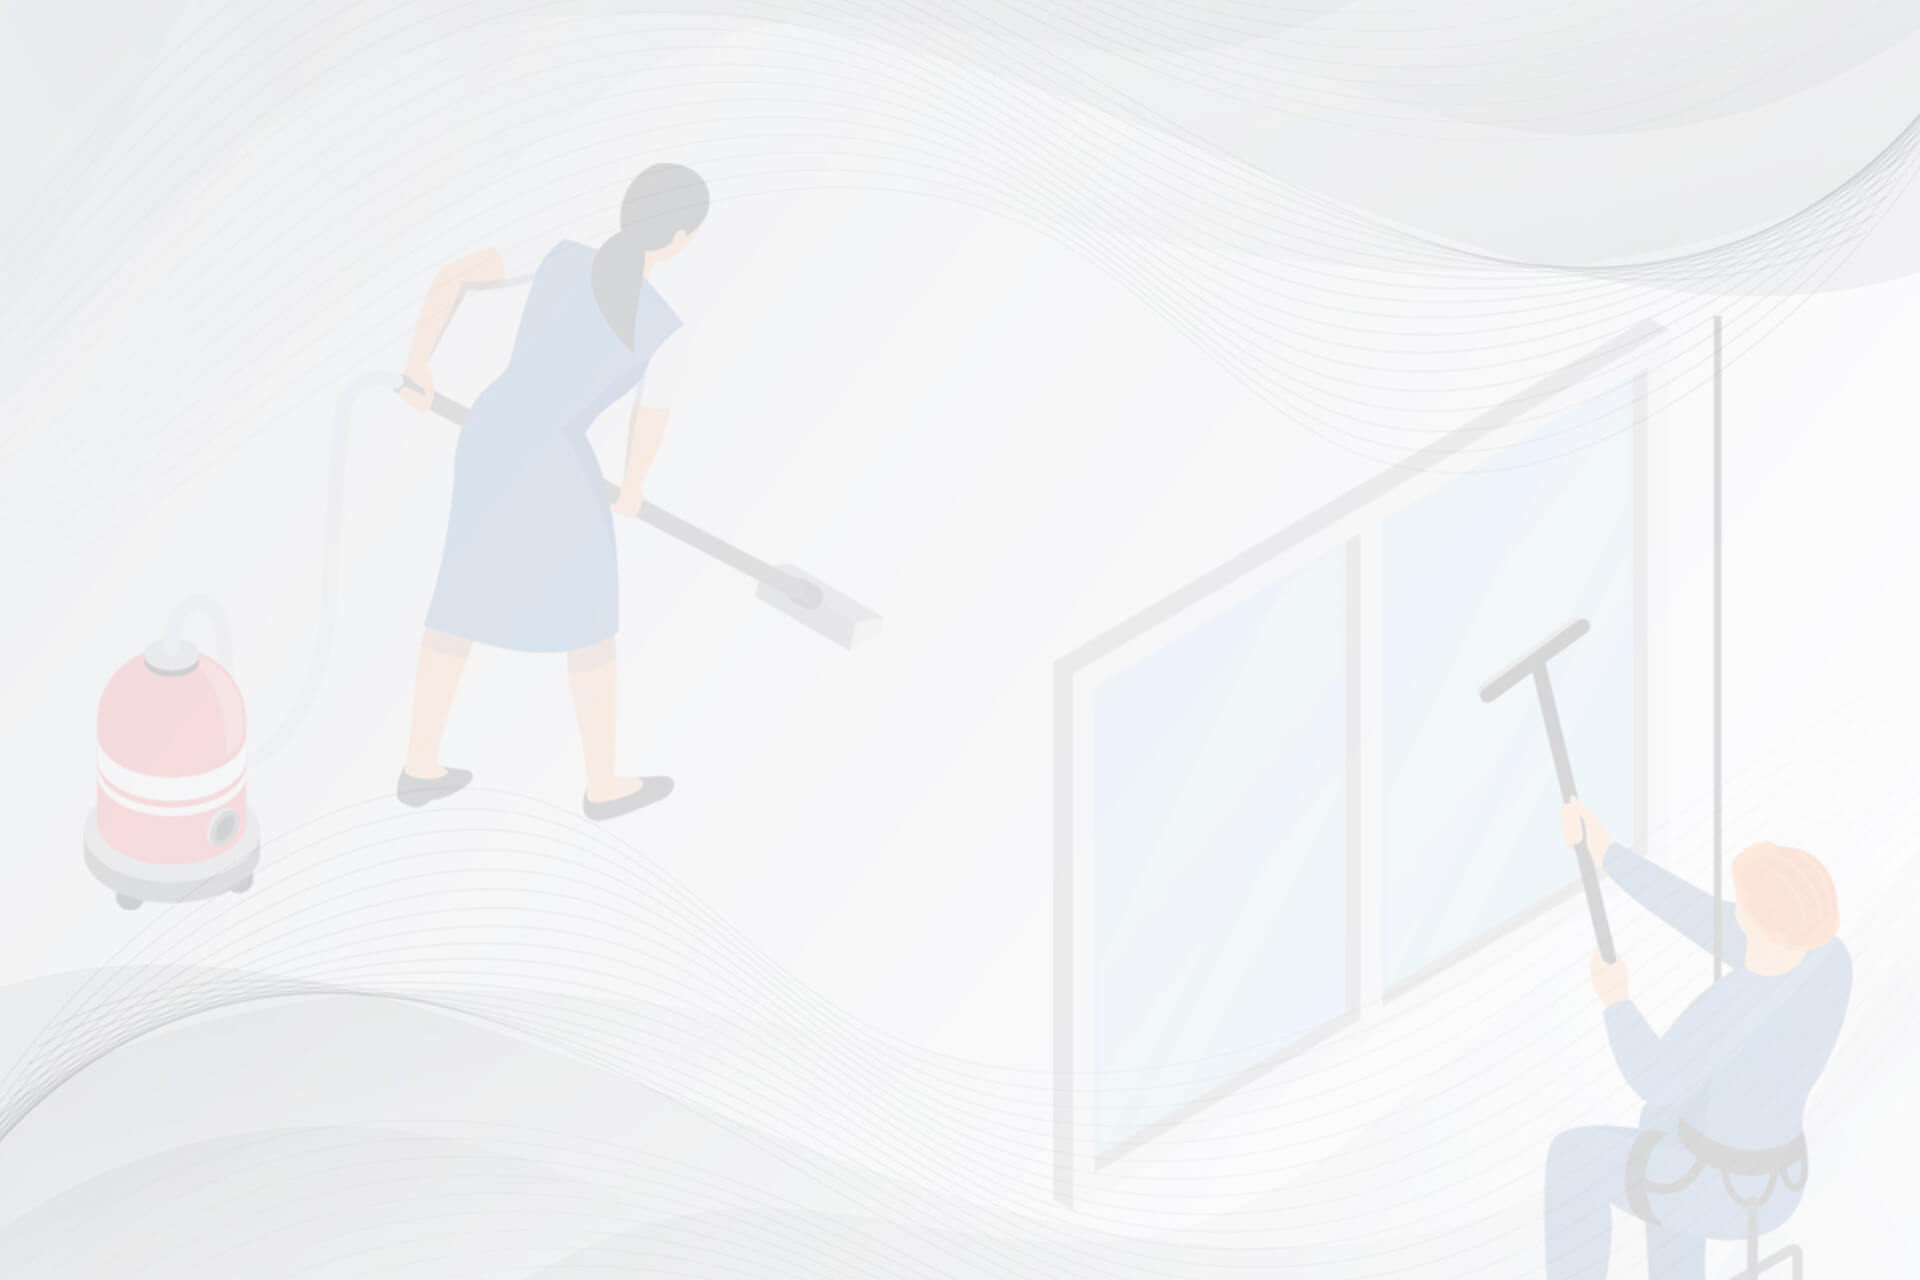
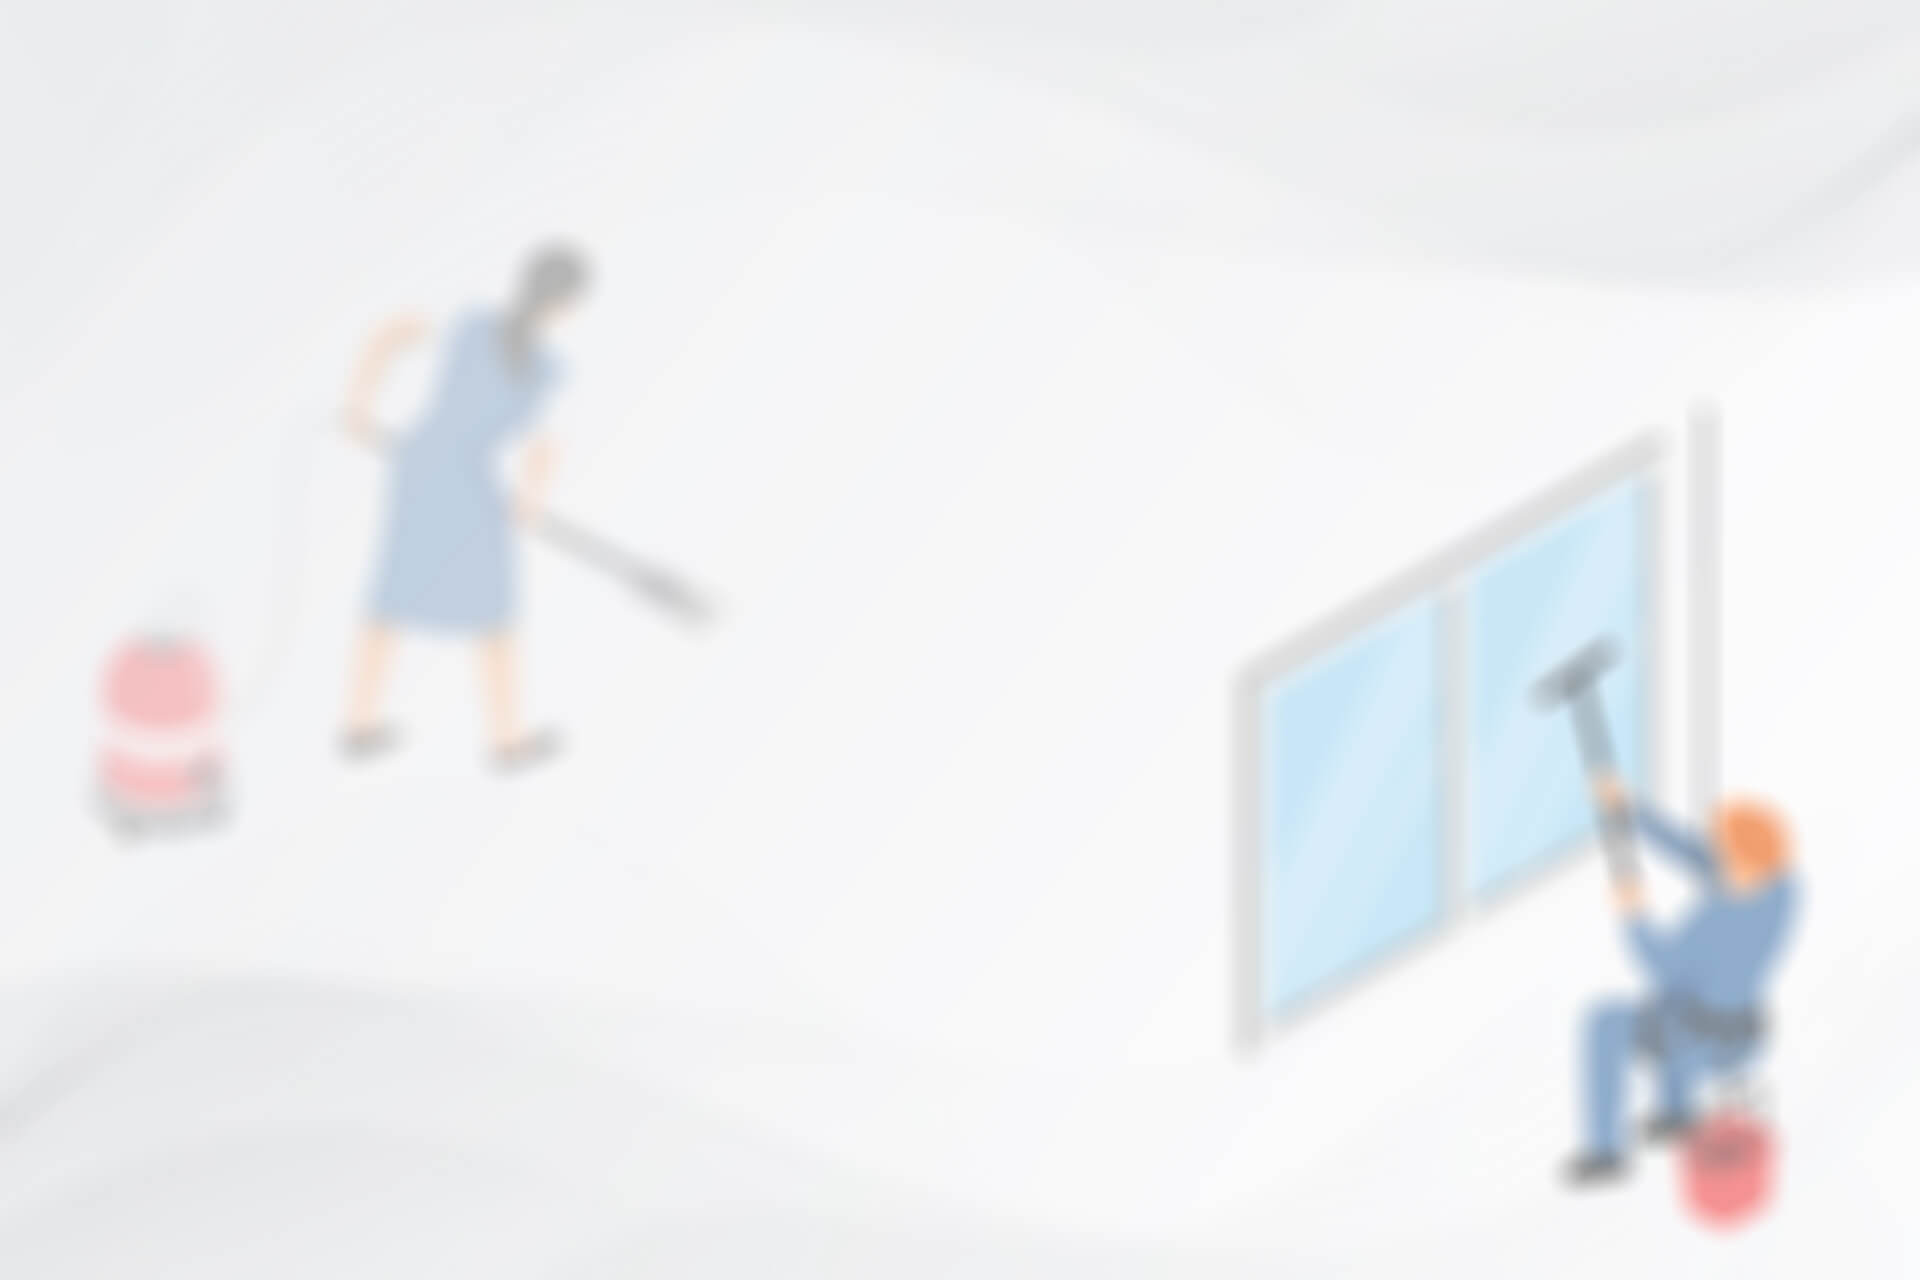
Optimize

diff --git a/components/home/section-4/form/Form.tsx b/components/home/section-4/form/Form.tsx
@@ -101,9 +101,7 @@ const Form = () => {
             />
           </svg>
         )}
-        <Typography className="text-lg md:text-2xl" variant="h5">
-          Submit
-        </Typography>
+        <Typography className="text-lg md:text-2xl">Submit</Typography>
       </Button>
     </form>
   );

diff --git a/components/home/hero/DesktopHero.tsx b/components/home/hero/DesktopHero.tsx
@@ -14,7 +14,7 @@ const DesktopHero = () => {
 
   return (
     <WaterWave
-      imageUrl="/assets/images/home/hero/bg-blur.png"
+      imageUrl="/assets/images/home/hero/bg.jpg"
       style={{
         width: '100%',
         height: '100%',
